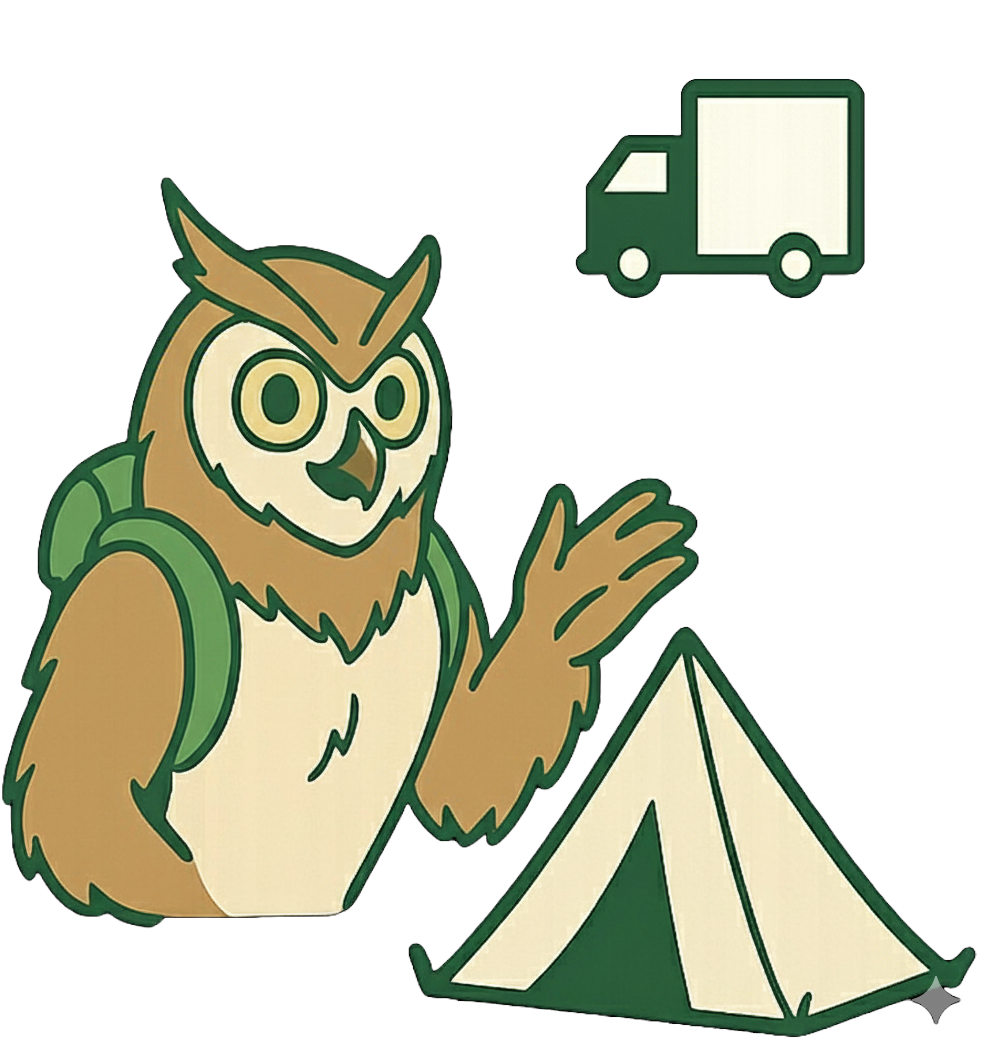
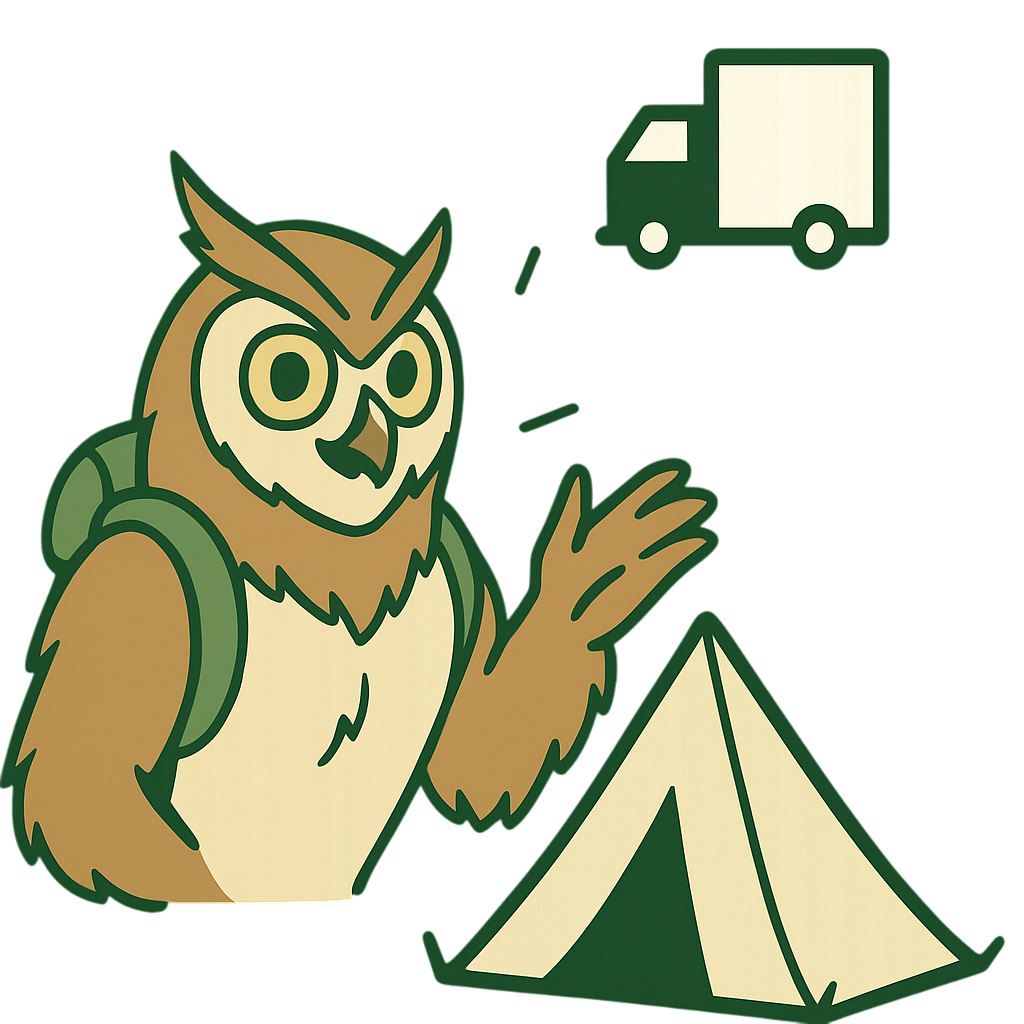
修正 CSS 檔名與租借流程圖片

diff --git a/main.css b/main.css
@@ -297,10 +297,9 @@ body {
 
 .step-item {
   display: flex;
+  align-items: center;
+  justify-content: space-between;
   gap: 40px;
-  height: 600px;
-  padding-bottom: 40px;
-  width: 100%;
 }
 
 .step-1, .step-3 {
@@ -312,31 +311,53 @@ body {
 }
 
 .step-number-bg {
-  flex: 1;
-  background-color:var(--light-beige);
-  padding: 30px;
+  flex: 1 1 50%;
+  max-width: 50%;
+  background-color: var(--light-beige);
   border-radius: 64px;
-  position: relative;
-  display: flex; 
-  justify-content: center;
-  align-items: center;
-  padding: 50px;
-}
-
-.step-imgs{
-  width: 90%;
   display: flex;
   justify-content: center;
   align-items: center;
+  position: relative;
+}
+
+.step-img-wrapper {
+  position: relative;
+  width: 100%;
+  padding-top: 100%;
+  overflow: hidden;
+  border-radius: 32px;
+}
+
+.step-imgs {
+  position: absolute;
+  top: 50%;
+  left: 50%;
+  transform: translate(-50%, -50%);
+  width: 100%;
+  height: 100%;
+  object-fit: contain;
+  object-position: center;
+}
+
+.step-1 .step-imgs {
+  transform: translate(-50%, -50%) scale(0.6);
+}
+
+.step-2 .step-imgs {
+  transform: translate(-50%, -50%) scale(0.7);
+}
+
+.step-3 .step-imgs {
+  transform: translate(-50%, -50%) scale(0.67);
 }
 
 .step-numbers {
   background-color:white;
-  font-size: 120px;
+  font-size: 5.5vw;
   font-weight: bold;
   color: var(--accent-green);
   position: absolute;
-  /* 定位到右上角 */
   top: 30px;
   left: 30px;
   line-height: 1;
@@ -346,11 +367,12 @@ body {
 }
 
 .step-content {
-  flex: 1;
+  flex: 1 1 50%;
   display: flex;
   flex-direction: column;
   justify-content: center;
   align-items: center;
+  max-width: 50%;
 }
 
 .step-content h2 {

diff --git a/index.html b/index.html
@@ -194,7 +194,9 @@
             <div class="header-title">露營裝備租借流程</div>
             <div class="step-item step-1">
                 <div class="step-number-bg">
-                    <img class="step-imgs" src="rental process/第一步.png" alt="">
+                    <div class="step-img-wrapper">
+                        <img class="step-imgs" src="rental process/第一步.png" alt="">
+                    </div>
                     <span class="step-numbers">01</span>
                 </div>
                 <div class="step-content">
@@ -208,7 +210,9 @@
             </div>
             <div class="step-item step-2">
                 <div class="step-number-bg">
-                    <img class="step-imgs" src="rental process/第二步.png" alt="">
+                    <div class="step-img-wrapper">
+                        <img class="step-imgs" src="rental process/第二步.png" alt="">
+                    </div>
                     <span class="step-numbers">02</span>
                 </div>
                 <div class="step-content">
@@ -222,7 +226,9 @@
             </div>
             <div class="step-item step-3">
                 <div class="step-number-bg">
-                    <img class="step-imgs" src="rental process/第三步.png" alt="">
+                    <div class="step-img-wrapper">
+                        <img class="step-imgs" src="rental process/第三步.png" alt="">
+                    </div>
                     <span class="step-numbers">03</span>
                 </div>
                 <div class="step-content">
